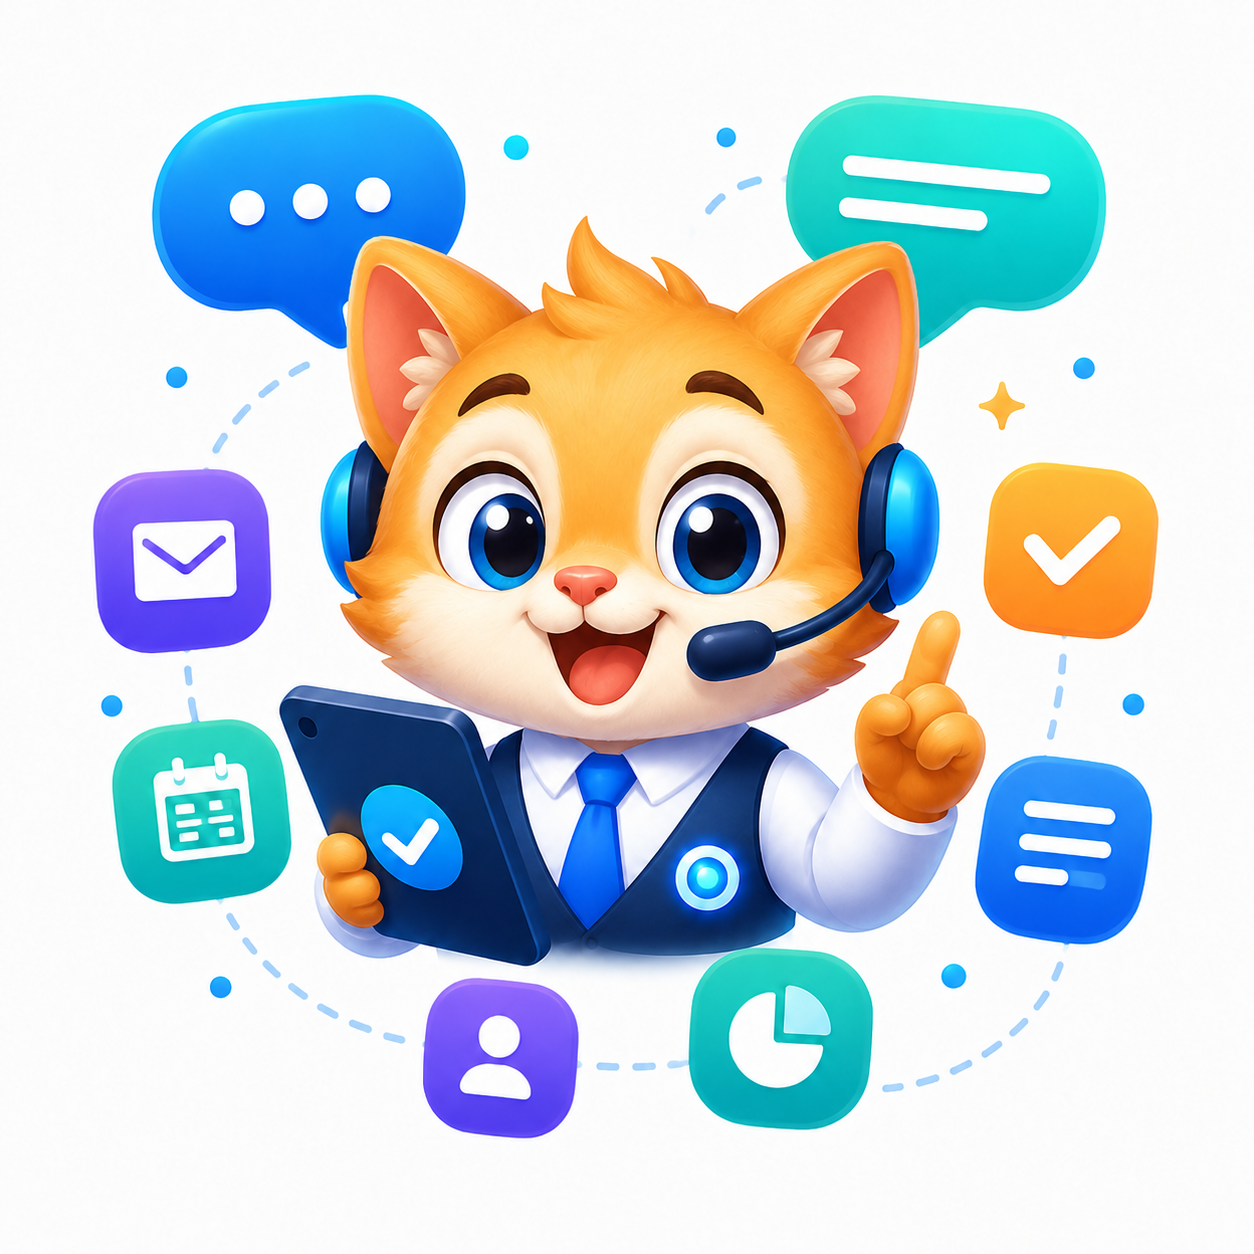
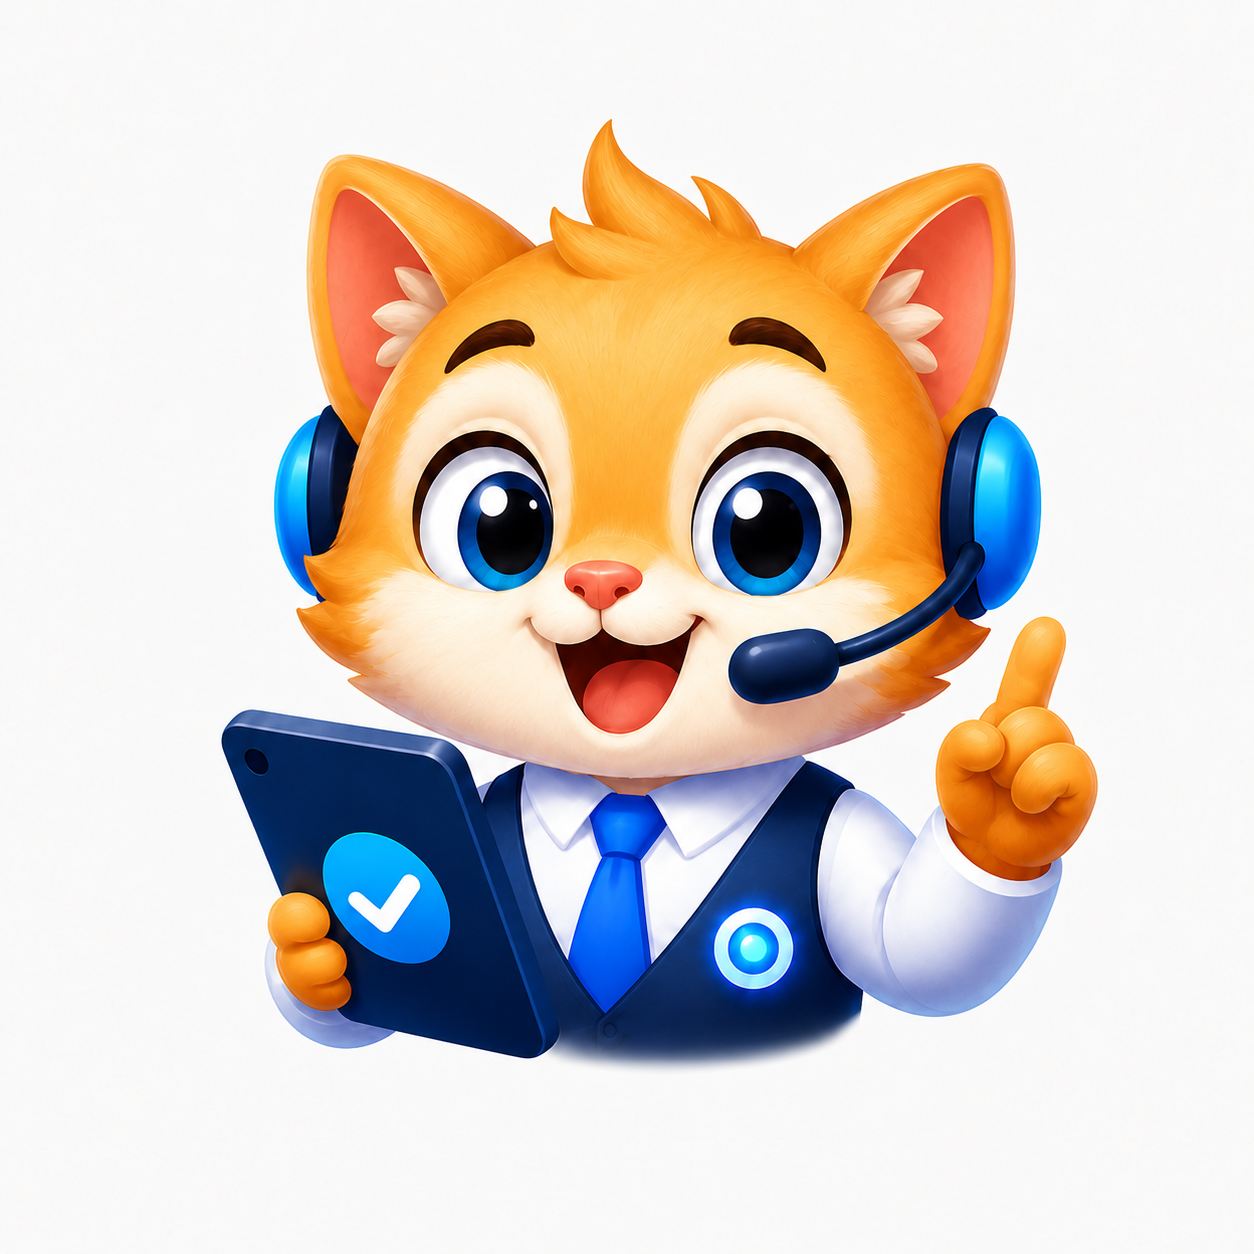
doc

diff --git a/README.md b/README.md
@@ -5,10 +5,6 @@
 [![PostgreSQL + pgvector](https://img.shields.io/badge/PostgreSQL-pgvector-336791.svg?logo=postgresql&logoColor=white)](https://github.com/pgvector/pgvector)
 [![Версия 1.0.5](https://img.shields.io/badge/version-1.0.5-blue.svg)](package.json)
 
-Агентский чат-бот с долговременной памятью на PostgreSQL. Работает в двух каналах — в Telegram и в терминале.
-Помнит факты о собеседнике между сессиями, вызывает инструменты, напоминает о делах по расписанию, понимает
-голосовые сообщения и при желании отвечает голосом, а в режиме собеседника пишет первым по уместному поводу.
-
 ## Быстрые ссылки
 
 - [Что умеет бот](#что-умеет-бот)
@@ -24,15 +20,15 @@
 
 ## Обзор
 
-MEM BOT — это приложение на Node.js, которое объединяет языковую модель, долговременную память в PostgreSQL и набор
-инструментов. Бот предназначен для тех, кому нужен ассистент, помнящий контекст между разговорами: он хранит профиль
-собеседника, предметные факты, защищённые данные и напоминания, но в каждый запрос к модели подставляет лишь небольшой
-релевантный и безопасный фрагмент памяти. Базовое реактивное ядро отвечает на сообщения; необязательное проактивное
-расширение позволяет боту самому начинать разговор, не превращаясь в источник спама.
+MEM BOT — это агентская система: языковая модель, многоуровенвая память и набор инструментов.  
+Она вызывает инструменты, управляет памятью, ставит напоминания, читает защищённые записи — пока не решит задачу;
+набор инструментов расширяется внешними серверами MCP, а набор навыков - кастомными навыками.
 
-Бот ориентирован на собеседника как на человека, а не как на источник запросов: он запоминает, кто вы и как вам
-удобнее общаться, подстраивает стиль под вас, бережно относится к личным данным и в режиме собеседника поддерживает
-контакт по уместному поводу. Цель — дружелюбный и внимательный помощник, который помнит контекст и уважает ваше время.
+Бот помнит контекст между разговорами (профиль, предметные факты, защищённые данные, напоминания), но в каждый запрос
+подставляет лишь небольшой релевантный и безопасный срез памяти. Базовое ядро реактивно; необязательный проактивный
+режим позволяет писать первым, не превращаясь в спам.  
+
+Бот ориентирован на собеседника как на человека: запоминает, кто вы и как вам удобнее общаться, подстраивает стиль и бережёт личные данные.
 
 ## Что умеет бот
 